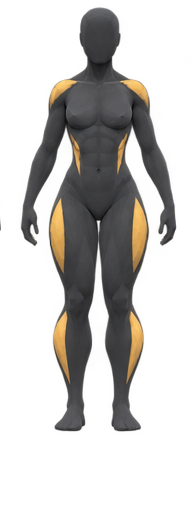
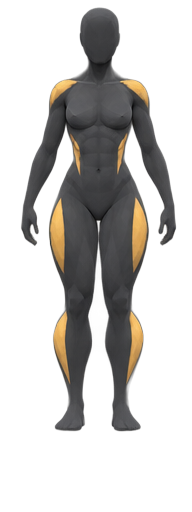
Пікер фігури: прозорий фон (matte), підміна одним зображенням, + іконка
За зауваженнями (live-ревʼю):
- Силуети виmatteно у прозорий фон (rembg/u2net, 16 png) — фігури «плавають»
  без прямокутного тайлу, коректно і на темній, і на брас-картці.
- Замість двох накладених шарів із кросфейдом — ОДНЕ <img>, підміна src
  base↔lit на hover/active. Перевірено: rect ідентичний до/після
  (піксель-у-піксель, без зсуву), object-fit contain — нічого не обрізається.
  lit-варіанти передвантажуються (миттєвий свап).
- Додано + іконку в порожній картці «Ціль фігури», щоб було видно, що клікабельно.

Перевірено вручну через computer use + скріншоти: прозорість, свап без руху,
відсутність обрізання, іконка, приховання статі.

Claude-Session: https://claude.ai/code/session_01BAgqTx4XiGeaj8SSxpQw7d

diff --git a/client/src/views/PhysiquePicker.tsx b/client/src/views/PhysiquePicker.tsx
@@ -5,7 +5,7 @@
  * existing emphasis is kept). Cards render the body-muscles map for now; the
  * stylised silhouettes swap in here once available.
  */
-import { useState } from 'react';
+import { useState, useEffect } from 'react';
 import { useT } from '../i18n';
 import { useStore, setPhysiqueTarget, setBlockFocus } from '../store';
 import { Sheet, Icon } from '../ui';
@@ -21,8 +21,17 @@ export function PhysiquePicker({ onClose }: { onClose: () => void }) {
   const [sexState, setSexState] = useState<'male' | 'female'>(cur?.sex ?? 'male');
   const sex = accountSex ?? sexState;
   const [picked, setPicked] = useState<ArchetypeId | null>(cur?.archetype ?? null);
+  const [hoverId, setHoverId] = useState<ArchetypeId | null>(null);
 
   const ids = ARCHETYPES_BY_SEX(sex);
+
+  // Preload the highlighted variants so the hover/active swap is instant.
+  useEffect(() => {
+    for (const id of ids) {
+      const img = new Image();
+      img.src = `/physiques/${id}-lit.png`;
+    }
+  }, [ids]);
 
   const use = () => {
     if (!picked) return;
@@ -80,12 +89,15 @@ export function PhysiquePicker({ onClose }: { onClose: () => void }) {
             key={id}
             className={`phys-card${picked === id ? ' active' : ''}`}
             onClick={() => setPicked(id)}
+            onMouseEnter={() => setHoverId(id)}
+            onMouseLeave={() => setHoverId((h) => (h === id ? null : h))}
           >
             {picked === id && <Icon name="check-circle" weight="fill" className="phys-check" />}
-            <div className="phys-fig">
-              <img className="phys-base" src={`/physiques/${id}.png`} alt="" />
-              <img className="phys-lit" src={`/physiques/${id}-lit.png`} alt="" />
-            </div>
+            <img
+              className="phys-fig"
+              src={`/physiques/${id}${picked === id || hoverId === id ? '-lit' : ''}.png`}
+              alt=""
+            />
             <div className="phys-name">{t.archetypes[id].name}</div>
             <div className="phys-blurb">{t.archetypes[id].blurb}</div>
           </button>

diff --git a/client/src/views/GoalsView.tsx b/client/src/views/GoalsView.tsx
@@ -66,18 +66,27 @@ export function GoalsView({
         <section className="goals-card">
           <div className="goals-card-head">
             <span className="goals-card-kicker">{t.goalsPhysiqueTitle}</span>
-            {physique && (
+            {physique ? (
               <button className="goals-change" onClick={() => setEditingPhysique(true)}>
                 {t.physChange}
+              </button>
+            ) : (
+              <button
+                className="goals-edit"
+                onClick={() => setEditingPhysique(true)}
+                aria-label={t.goalsPhysiqueTitle}
+              >
+                <Icon name="plus" />
               </button>
             )}
           </div>
           {physique ? (
             <div className="goals-physique">
-              <div className="phys-fig lit goals-physique-fig">
-                <img className="phys-base" src={`/physiques/${physique.archetype}.png`} alt="" />
-                <img className="phys-lit" src={`/physiques/${physique.archetype}-lit.png`} alt="" />
-              </div>
+              <img
+                className="phys-fig goals-physique-fig"
+                src={`/physiques/${physique.archetype}-lit.png`}
+                alt=""
+              />
               <div>
                 <div className="goals-physique-name">{t.archetypes[physique.archetype].name}</div>
                 <div className="goals-physique-blurb">{t.archetypes[physique.archetype].blurb}</div>

diff --git a/client/src/styles.css b/client/src/styles.css
@@ -14537,36 +14537,14 @@ button.exd-media {
   font-size: 17px;
   color: var(--color-accent);
 }
+/* Single transparent (matted) figure. The highlighted variant is swapped in via
+   the src — one element, fixed box, so the figure never moves on hover/active. */
 .phys-fig {
-  position: relative;
+  display: block;
   width: 82px;
   margin: 0 auto;
   aspect-ratio: 192 / 512;
-  /* Studio renders can't be matted (figure tone == bg tone), so present each as
-     a neat rounded portrait rather than an accidental rectangular tile. */
-  border-radius: 12px;
-  overflow: hidden;
-  box-shadow: inset 0 0 0 1px rgba(255, 255, 255, 0.06);
-}
-.phys-fig img {
-  position: absolute;
-  inset: 0;
-  width: 100%;
-  height: 100%;
   object-fit: contain;
-  display: block;
-}
-/* Highlighted silhouette cross-fades in on hover/active (web) and active
-   (mobile has no hover). Both layers share the exact box + source dims, so the
-   figure never shifts. */
-.phys-lit {
-  opacity: 0;
-  transition: opacity 0.14s ease;
-}
-.phys-card:hover .phys-lit,
-.phys-card.active .phys-lit,
-.phys-fig.lit .phys-lit {
-  opacity: 1;
 }
 .phys-name {
   font-size: 14px;
